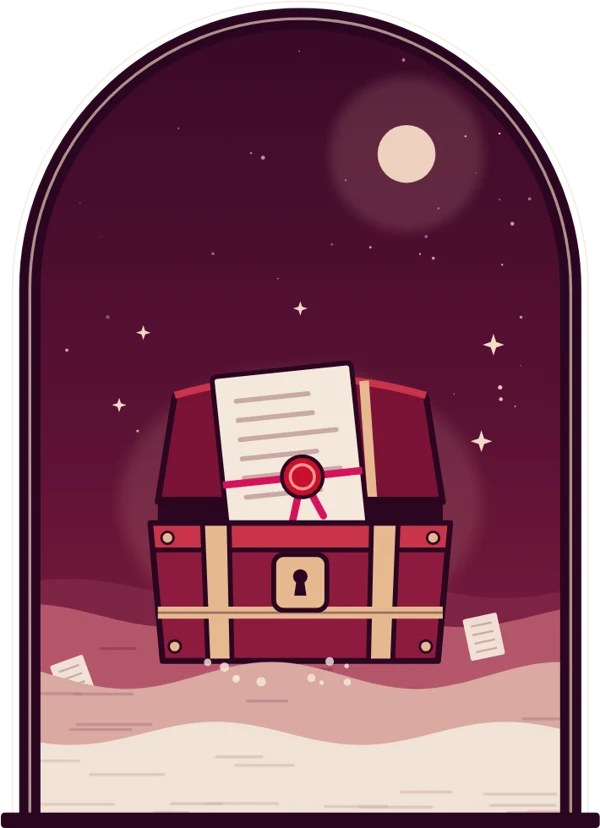
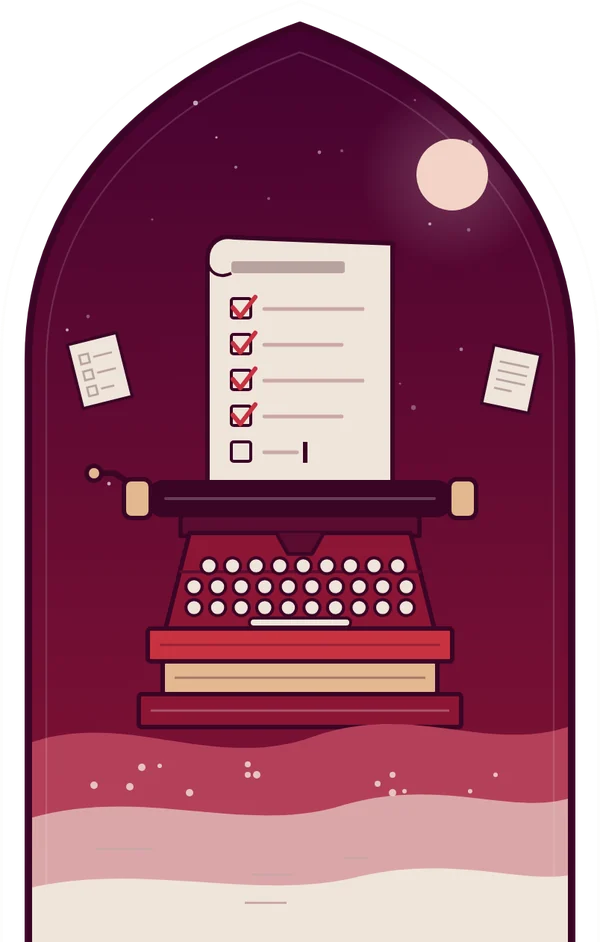
Biblioteca: categoria Relato (sem 'ciência aberta') com nova ilustração; nomes canônicos no banco
Claude-Session: https://claude.ai/code/session_01GnSrfr2tSY1j9VwALX1r8c

diff --git a/apps/app/lib/library-categories.test.ts b/apps/app/lib/library-categories.test.ts
@@ -147,3 +147,12 @@ test("a lista escolhida no cadastro vira grupos canônicos, sem repetição", ()
   ).toEqual(["Busca da evidência", "Registros de protocolo"]);
   expect(normalizeLibraryCategories([])).toEqual([]);
 });
+
+test("Relato é o nome do grupo e o nome antigo continua valendo como apelido", () => {
+  expect(libraryCategoryGroup("Relato")).toBe("Relato");
+  expect(libraryCategoryGroup("Relato e ciência aberta")).toBe("Relato");
+  expect(libraryCategoryGroup("Reporting guidelines")).toBe("Relato");
+  expect(libraryCategoryFilterValues("Relato")).toContain(
+    "Relato e ciência aberta"
+  );
+});

diff --git a/apps/app/components/library/library-cover.tsx b/apps/app/components/library/library-cover.tsx
@@ -14,7 +14,7 @@ const COVER_BY_GROUP: Readonly<Record<string, string>> = {
   "Nutrição baseada em evidências":
     "/library/illustrations/nutrition-evidence.svg",
   "Registros de protocolo": "/library/illustrations/protocols.svg",
-  "Relato e ciência aberta": "/library/illustrations/scientific-report.svg",
+  Relato: "/library/illustrations/scientific-report.svg",
   "Revisões sistemáticas": "/library/illustrations/systematic-reviews.svg",
   "Risco de viés": "/library/illustrations/risk-of-bias.svg",
 };

diff --git a/apps/app/lib/library-shelves.ts b/apps/app/lib/library-shelves.ts
@@ -39,7 +39,7 @@ const SHELF_ART_BY_GROUP: Readonly<Record<string, string>> = {
     "/library/shelves/leitura-critica.webp",
   "Nutrição baseada em evidências": "/library/shelves/nutricao.webp",
   "Registros de protocolo": "/library/shelves/registros.webp",
-  "Relato e ciência aberta": "/library/shelves/relato.webp",
+  Relato: "/library/shelves/relato.webp",
   "Revisões sistemáticas": "/library/shelves/revisoes-busca.webp",
   "Risco de viés": "/library/shelves/risco-de-vies.webp",
 };

diff --git a/apps/app/lib/library.ts b/apps/app/lib/library.ts
@@ -57,7 +57,12 @@ const libraryCategoryWhere = (
   const group = libraryCategoryGroup(selected);
   return {
     OR: [
-      { categories: { has: group } },
+      // Aceita também os apelidos antigos que ainda estejam gravados na lista.
+      {
+        categories: {
+          hasSome: [group, ...libraryCategoryFilterValues(selected)],
+        },
+      },
       {
         categories: { isEmpty: true },
         category: { in: libraryCategoryFilterValues(selected) },

diff --git a/apps/app/lib/library-categories.ts b/apps/app/lib/library-categories.ts
@@ -40,8 +40,9 @@ export const LIBRARY_CATEGORY_GROUPS = [
     aliases: ["Risco de viés"],
   },
   {
-    label: "Relato e ciência aberta",
+    label: "Relato",
     aliases: [
+      "Relato",
       "Relato e ciência aberta",
       "Relato científico",
       "Reporting guidelines",
